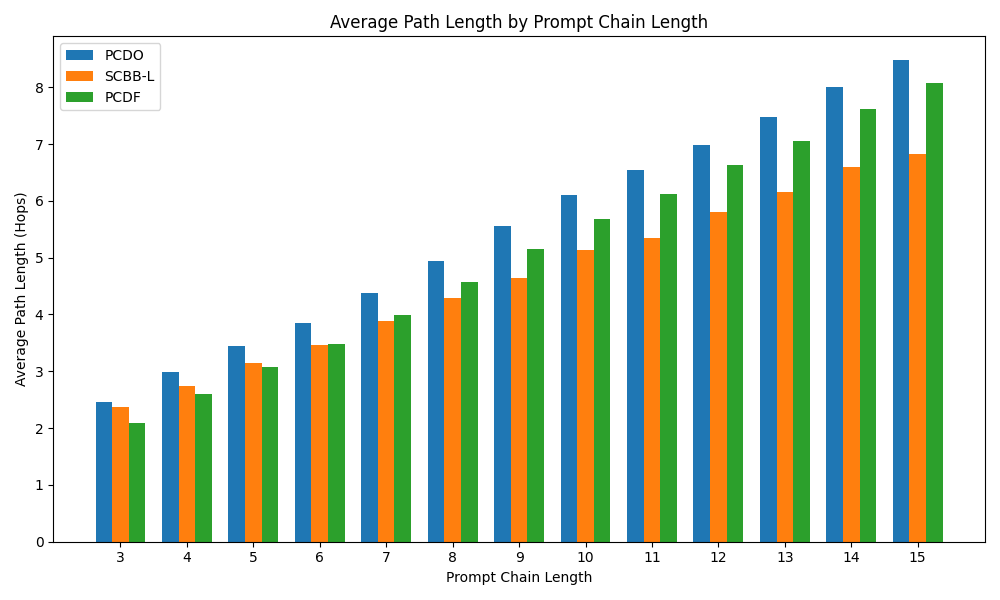
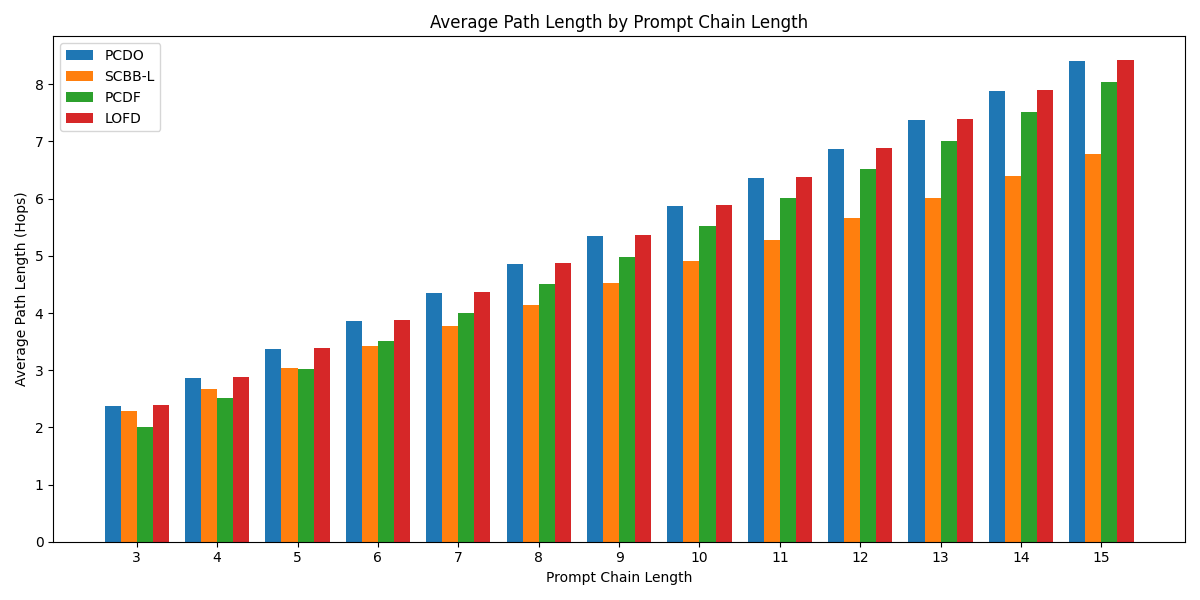
mvp_4: scbb-l pcdo pcdf lofd

diff --git a/main.py b/main.py
@@ -24,8 +24,8 @@ BANDWIDTH_DEMAND = [1, 2, 3, 4, 5]
 COMP_LATENCY_PER_CORE = 0.01
 PEP_VERIFY_LATENCY = 0.5
 VPEP_VERIFY_LATENCY = 0.02
-NUM_NETWORKS = 10
-NUM_AI_SRS_PER_NETWORK = 1000
+NUM_NETWORKS = 80
+NUM_AI_SRS_PER_NETWORK = 4000
 
 # --- Helper Functions ---
 def generate_network():
@@ -371,6 +371,182 @@ def pcdf(G, S, Q, X, ai_sr):
     
     return new_path, total_latency, verification_latency, num_verification_steps
 
+# --- LOFD Implementation (Local Optimal First Deployment) ---
+def lofd(G, S, Q, X, ai_sr):
+    PrC = ai_sr['PrC']
+    d_v = ai_sr['d_v']
+    BW = ai_sr['BW']
+    prompt_types = ai_sr['prompt_types']
+    c_v = ai_sr['c_v']
+    source = ai_sr['source']
+    
+    remaining_capacity = {n: G.nodes[n]['capacity'] for n in S}
+    deployment = {}
+    For_Path = [source]
+    PrC = PrC[1:]  # Remove p_0
+    d_v = d_v[1:]
+    prompt_types = prompt_types[1:]
+    c_v = c_v[1:]
+    
+    # Step 1: Deploy the first prompt (p_1) on the closest PES to the source
+    current = source
+    pt = prompt_types[0]  # Prompt type of p_1
+    best_n = None
+    min_dist = float('inf')
+    for n in S:
+        if pt not in G.nodes[n]['prompt_types']:
+            continue
+        if c_v[0] > remaining_capacity[n]:
+            continue
+        try:
+            dist = nx.shortest_path_length(G, current, n, weight='weight')
+            if dist < min_dist:
+                min_dist = dist
+                best_n = n
+        except nx.NetworkXNoPath:
+            continue
+    
+    if best_n is None:
+        return None, float('inf'), 0, 0, remaining_capacity
+    
+    deployment[PrC[0]] = best_n
+    remaining_capacity[best_n] -= c_v[0]
+    path = nx.shortest_path(G, current, best_n, weight='weight')
+    For_Path.extend(path[1:] if path[0] == current else path)
+    current = best_n
+    
+    # Step 2: For each subsequent prompt, choose the cheapest verification method and deploy to the closest PES
+    for idx in range(1, len(PrC)):
+        prev_n = current
+        pt = prompt_types[idx]
+        c = c_v[idx]
+        d_prev = d_v[idx-1]  # Data volume of the previous prompt
+        
+        # Assume verification is needed (will adjust later if on the same PES)
+        # Compute PEP-based verification latency
+        pep_latencies = []
+        for q in Q:
+            try:
+                path_to_q = nx.shortest_path(G, prev_n, q, weight='weight')
+                path_from_q = nx.shortest_path(G, q, n, weight='weight')
+                trans_to_q = compute_transmission_latency(G, path_to_q, d_prev, BW)
+                trans_from_q = compute_transmission_latency(G, path_from_q, d_prev, BW)
+                pep_latency = trans_to_q + trans_from_q + PEP_VERIFY_LATENCY
+                pep_latencies.append((pep_latency, path_to_q, path_from_q))
+            except nx.NetworkXNoPath:
+                continue
+        
+        # Compute vPEP-based verification latency (vPEP on prev_n)
+        vpep_latency = VPEP_VERIFY_LATENCY * d_prev
+        
+        # Choose the cheapest verification method
+        if pep_latencies and min(pep_latencies, key=lambda x: x[0])[0] < vpep_latency:
+            cheapest_verify_latency, path_to_q, path_from_q = min(pep_latencies, key=lambda x: x[0])
+            uses_pep = True
+        else:
+            cheapest_verify_latency = vpep_latency
+            uses_pep = False
+        
+        # Deploy the next prompt on the closest PES
+        best_n = None
+        min_dist = float('inf')
+        for n in S:
+            if pt not in G.nodes[n]['prompt_types']:
+                continue
+            total_comp = c
+            if n != prev_n:
+                total_comp += VPEP_COMP_DEMAND  # For vPEP if needed
+            if total_comp > remaining_capacity[n]:
+                continue
+            try:
+                dist = nx.shortest_path_length(G, prev_n, n, weight='weight')
+                if dist < min_dist:
+                    min_dist = dist
+                    best_n = n
+            except nx.NetworkXNoPath:
+                continue
+        
+        if best_n is None:
+            return None, float('inf'), 0, 0, remaining_capacity
+        
+        deployment[PrC[idx]] = best_n
+        remaining_capacity[best_n] -= c
+        if best_n != prev_n:
+            remaining_capacity[prev_n] -= VPEP_COMP_DEMAND  # For vPEP
+        
+        # Update path
+        if best_n != prev_n:
+            if uses_pep:
+                path = path_to_q[:-1] + path_from_q
+            else:
+                path = nx.shortest_path(G, prev_n, best_n, weight='weight')
+            For_Path.extend(path[1:] if path[0] == prev_n else path)
+        current = best_n
+    
+    # Connect to AIGC server
+    min_latency = float('inf')
+    best_x = None
+    final_path = []
+    for x in X:
+        try:
+            path_direct = nx.shortest_path(G, current, x, weight='weight')
+            trans_direct = compute_transmission_latency(G, path_direct, d_v[-1], BW)
+            vpep_latency = VPEP_VERIFY_LATENCY * d_v[-1] + trans_direct
+            if vpep_latency < min_latency:
+                min_latency = vpep_latency
+                best_x = x
+                final_path = path_direct
+            
+            for q in Q:
+                path_to_q = nx.shortest_path(G, current, q, weight='weight')
+                path_from_q = nx.shortest_path(G, q, x, weight='weight')
+                trans_to_q = compute_transmission_latency(G, path_to_q, d_v[-1], BW)
+                trans_from_q = compute_transmission_latency(G, path_from_q, d_v[-1], BW)
+                pep_latency = trans_to_q + trans_from_q + PEP_VERIFY_LATENCY
+                if pep_latency < min_latency:
+                    min_latency = pep_latency
+                    best_x = x
+                    final_path = path_to_q[:-1] + path_from_q
+        except nx.NetworkXNoPath:
+            continue
+    
+    if best_x is None:
+        return None, float('inf'), 0, 0, remaining_capacity
+    
+    For_Path.extend(final_path[1:] if final_path[0] == current else final_path)
+    deployment[PrC[-1]] = best_x
+    
+    # Compute total latency (only apply verification latency if on different PES)
+    total_latency = 0
+    verification_latency = 0
+    num_verification_steps = 0
+    for idx, p in enumerate(PrC):
+        n = deployment[p]
+        total_latency += c_v[idx] * COMP_LATENCY_PER_CORE
+        if idx == 0:
+            continue
+        prev_n = deployment[PrC[idx-1]]
+        if n != prev_n:
+            path = []
+            for j in range(len(For_Path)):
+                if For_Path[j] == prev_n:
+                    for k in range(j, len(For_Path)):
+                        path.append(For_Path[k])
+                        if For_Path[k] == n:
+                            break
+                    break
+            trans_latency = compute_transmission_latency(G, path, d_v[idx-1], BW)
+            uses_pep = any(node in Q for node in path[1:-1])
+            if uses_pep:
+                verify_latency = PEP_VERIFY_LATENCY
+            else:
+                verify_latency = VPEP_VERIFY_LATENCY * d_v[idx-1]
+            total_latency += trans_latency + verify_latency
+            verification_latency += verify_latency
+            num_verification_steps += 1
+    
+    return For_Path, total_latency, verification_latency, num_verification_steps, remaining_capacity
+
 # --- Main Experiment ---
 def run_experiment():
     # Results dictionary: {method: {length: {metric: value}}}
@@ -382,6 +558,9 @@ def run_experiment():
                           'verification_latency': [], 'verification_steps': [], 
                           'path_length': [], 'resource_utilization': []} for length in range(MIN_PROMPT_CHAIN_LENGTH, MAX_PROMPT_CHAIN_LENGTH+1)},
         'PCDF': {length: {'latency': [], 'accepted': 0, 'total': 0, 'runtime': [], 
+                          'verification_latency': [], 'verification_steps': [], 
+                          'path_length': [], 'resource_utilization': []} for length in range(MIN_PROMPT_CHAIN_LENGTH, MAX_PROMPT_CHAIN_LENGTH+1)},
+        'LOFD': {length: {'latency': [], 'accepted': 0, 'total': 0, 'runtime': [], 
                           'verification_latency': [], 'verification_steps': [], 
                           'path_length': [], 'resource_utilization': []} for length in range(MIN_PROMPT_CHAIN_LENGTH, MAX_PROMPT_CHAIN_LENGTH+1)}
     }
@@ -407,8 +586,7 @@ def run_experiment():
                 results['SCBB-L'][chain_length]['latency'].append(latency)
                 results['SCBB-L'][chain_length]['verification_latency'].append(verif_latency)
                 results['SCBB-L'][chain_length]['verification_steps'].append(verif_steps)
-                results['SCBB-L'][chain_length]['path_length'].append(len(path) - 1)  # Number of hops
-                # Compute resource utilization efficiency (coefficient of variation)
+                results['SCBB-L'][chain_length]['path_length'].append(len(path) - 1)
                 used_capacity = [G.nodes[n]['capacity'] - remaining_capacity[n] for n in S]
                 mean_capacity = np.mean(used_capacity) if used_capacity else 0
                 std_capacity = np.std(used_capacity) if used_capacity else 0
@@ -445,13 +623,30 @@ def run_experiment():
                 results['PCDF'][chain_length]['verification_latency'].append(verif_latency)
                 results['PCDF'][chain_length]['verification_steps'].append(verif_steps)
                 results['PCDF'][chain_length]['path_length'].append(len(path) - 1)
-                # Resource utilization: re-run pcdo to get remaining capacity
                 _, _, _, _, _, remaining_capacity = pcdo(G, S, X, ai_sr)
                 used_capacity = [G.nodes[n]['capacity'] - remaining_capacity[n] for n in S]
                 mean_capacity = np.mean(used_capacity) if used_capacity else 0
                 std_capacity = np.std(used_capacity) if used_capacity else 0
                 cv = std_capacity / mean_capacity if mean_capacity > 0 else float('inf')
                 results['PCDF'][chain_length]['resource_utilization'].append(cv)
+            
+            # Run LOFD
+            start_time = time.time()
+            path, latency, verif_latency, verif_steps, remaining_capacity = lofd(G, S, Q, X, ai_sr)
+            runtime = time.time() - start_time
+            results['LOFD'][chain_length]['total'] += 1
+            results['LOFD'][chain_length]['runtime'].append(runtime)
+            if path is not None:
+                results['LOFD'][chain_length]['accepted'] += 1
+                results['LOFD'][chain_length]['latency'].append(latency)
+                results['LOFD'][chain_length]['verification_latency'].append(verif_latency)
+                results['LOFD'][chain_length]['verification_steps'].append(verif_steps)
+                results['LOFD'][chain_length]['path_length'].append(len(path) - 1)
+                used_capacity = [G.nodes[n]['capacity'] - remaining_capacity[n] for n in S]
+                mean_capacity = np.mean(used_capacity) if used_capacity else 0
+                std_capacity = np.std(used_capacity) if used_capacity else 0
+                cv = std_capacity / mean_capacity if mean_capacity > 0 else float('inf')
+                results['LOFD'][chain_length]['resource_utilization'].append(cv)
     
     # Compute average metrics for each method and chain length
     metrics = {
@@ -511,96 +706,96 @@ def run_experiment():
     
     # Generate visualizations
     chain_lengths = list(range(MIN_PROMPT_CHAIN_LENGTH, MAX_PROMPT_CHAIN_LENGTH+1))
-    methods = ['PCDO', 'SCBB-L', 'PCDF']
-    bar_width = 0.25
+    methods = ['PCDO', 'SCBB-L', 'PCDF', 'LOFD']
+    bar_width = 0.2  # Adjusted bar width for four methods
     index = np.arange(len(chain_lengths))
     
     # Plot 1: Average Latency
-    plt.figure(figsize=(10, 6))
+    plt.figure(figsize=(12, 6))
     for i, method in enumerate(methods):
         plt.bar(index + i * bar_width, metrics['latency'][method], bar_width, label=method)
     plt.xlabel('Prompt Chain Length')
     plt.ylabel('Average Latency (ms)')
     plt.title('Average Latency by Prompt Chain Length')
-    plt.xticks(index + bar_width, chain_lengths)
+    plt.xticks(index + 1.5 * bar_width, chain_lengths)
     plt.legend()
     plt.tight_layout()
     plt.savefig('latency_comparison.png')
     plt.close()
     
     # Plot 2: Acceptance Ratio
-    plt.figure(figsize=(10, 6))
+    plt.figure(figsize=(12, 6))
     for i, method in enumerate(methods):
         plt.bar(index + i * bar_width, metrics['acceptance_ratio'][method], bar_width, label=method)
     plt.xlabel('Prompt Chain Length')
     plt.ylabel('Acceptance Ratio')
     plt.title('Acceptance Ratio by Prompt Chain Length')
-    plt.xticks(index + bar_width, chain_lengths)
+    plt.xticks(index + 1.5 * bar_width, chain_lengths)
     plt.legend()
     plt.tight_layout()
     plt.savefig('acceptance_ratio_comparison.png')
     plt.close()
     
     # Plot 3: Average Runtime
-    plt.figure(figsize=(10, 6))
+    plt.figure(figsize=(12, 6))
     for i, method in enumerate(methods):
         plt.bar(index + i * bar_width, metrics['runtime'][method], bar_width, label=method)
     plt.xlabel('Prompt Chain Length')
     plt.ylabel('Average Runtime (ms)')
     plt.title('Average Runtime by Prompt Chain Length')
-    plt.xticks(index + bar_width, chain_lengths)
+    plt.xticks(index + 1.5 * bar_width, chain_lengths)
     plt.legend()
     plt.tight_layout()
     plt.savefig('runtime_comparison.png')
     plt.close()
     
     # Plot 4: Verification Overhead Ratio
-    plt.figure(figsize=(10, 6))
+    plt.figure(figsize=(12, 6))
     for i, method in enumerate(methods):
         plt.bar(index + i * bar_width, metrics['verification_overhead'][method], bar_width, label=method)
     plt.xlabel('Prompt Chain Length')
     plt.ylabel('Verification Overhead Ratio')
     plt.title('Verification Overhead Ratio by Prompt Chain Length')
-    plt.xticks(index + bar_width, chain_lengths)
+    plt.xticks(index + 1.5 * bar_width, chain_lengths)
     plt.legend()
     plt.tight_layout()
     plt.savefig('verification_overhead_comparison.png')
     plt.close()
     
     # Plot 5: Average Number of Verification Steps
-    plt.figure(figsize=(10, 6))
+    plt.figure(figsize=(12, 6))
     for i, method in enumerate(methods):
         plt.bar(index + i * bar_width, metrics['verification_steps'][method], bar_width, label=method)
     plt.xlabel('Prompt Chain Length')
     plt.ylabel('Average Verification Steps')
     plt.title('Average Number of Verification Steps by Prompt Chain Length')
-    plt.xticks(index + bar_width, chain_lengths)
+    plt.xticks(index + 1.5 * bar_width, chain_lengths)
     plt.legend()
     plt.tight_layout()
     plt.savefig('verification_steps_comparison.png')
     plt.close()
     
     # Plot 6: Average Path Length (Hops)
-    plt.figure(figsize=(10, 6))
+    plt.figure(figsize=(12, 6))
     for i, method in enumerate(methods):
         plt.bar(index + i * bar_width, metrics['path_length'][method], bar_width, label=method)
     plt.xlabel('Prompt Chain Length')
     plt.ylabel('Average Path Length (Hops)')
     plt.title('Average Path Length by Prompt Chain Length')
-    plt.xticks(index + bar_width, chain_lengths)
+    plt.xticks(index + 1.5 * bar_width, chain_lengths)
     plt.legend()
     plt.tight_layout()
     plt.savefig('path_length_comparison.png')
     plt.close()
     
     # Plot 7: Resource Utilization Efficiency (Coefficient of Variation)
-    plt.figure(figsize=(10, 6))
+    plt.figure(figsize=(12, 6))
     for i, method in enumerate(methods):
         plt.bar(index + i * bar_width, metrics['resource_utilization'][method], bar_width, label=method)
     plt.xlabel('Prompt Chain Length')
     plt.ylabel('Resource Utilization Efficiency (CV)')
     plt.title('Resource Utilization Efficiency by Prompt Chain Length')
-    plt.xticks(index + bar_width, chain_lengths)
+    plt.xticks(index + 1.5 * bar_width, chain_lengths)
     plt.legend()
     plt.tight_layout()
     plt.savefig('resource_utilization_comparison.png')
